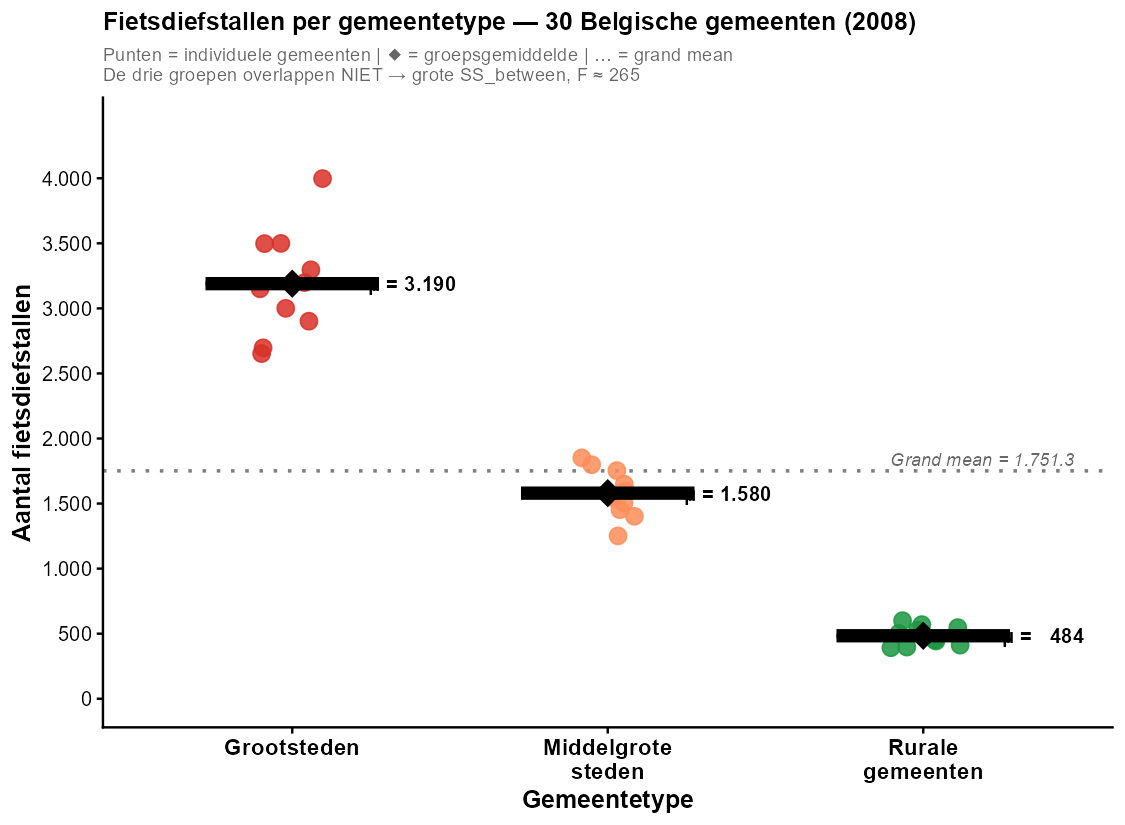
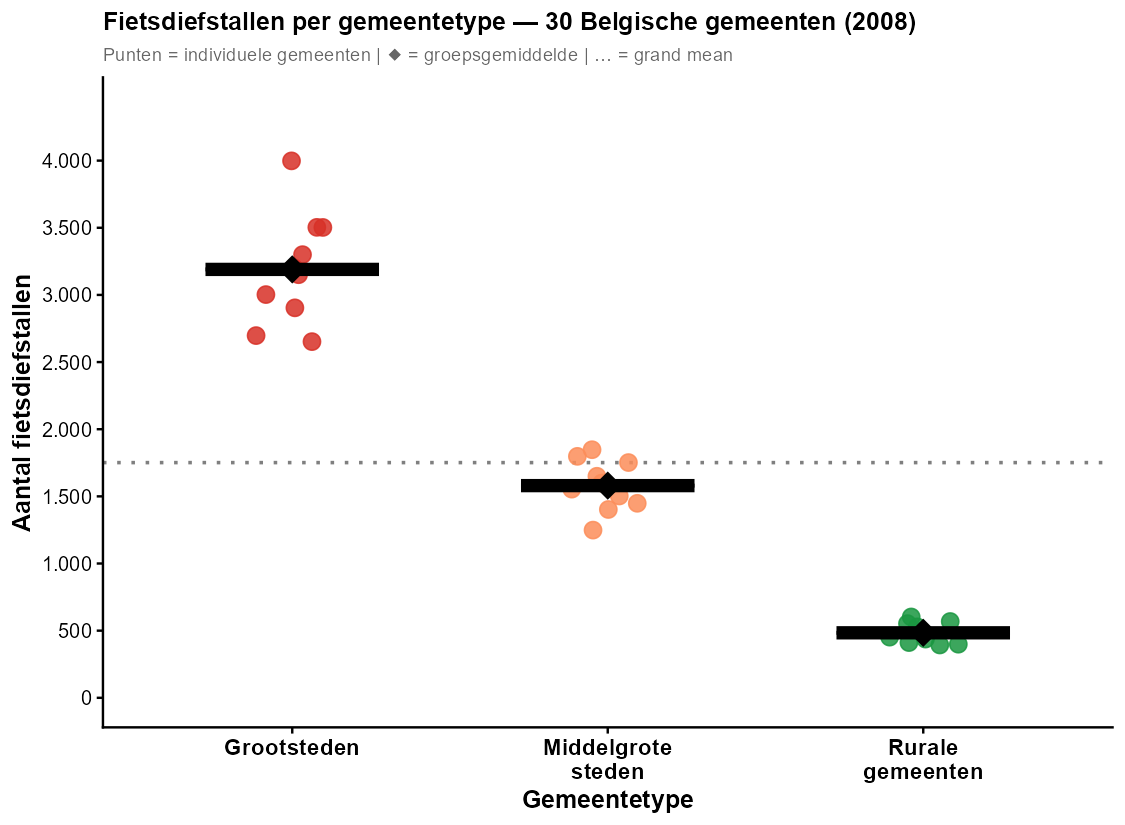
fix: remove answer hints from images in Oef 8.3, 8.4, 9.4

diff --git a/Hoofdstuk_9_Inferentiële statistiek en variantieanalyse/Oef - 9.4/description/description.nl.md b/Hoofdstuk_9_Inferentiële statistiek en variantieanalyse/Oef - 9.4/description/description.nl.md
@@ -32,7 +32,7 @@ In onderstaande tabel zie je het **aantal geregistreerde fietsdiefstallen** in *
 
 <img src="media/anova_dotplot.png" alt="Dot plot fietsdiefstallen per gemeentetype" style="width:100%; max-width:100%;" />
 
-> De drie groepen overlappen **niet**. Dit verklaart waarom SS_between veel groter is dan SS_within en de F-ratio extreem hoog uitvalt (F ≈ 265).
+> De drie groepen overlappen **niet**. Let op de spreiding binnen elke groep en de afstand tussen de groepen.
 
 Je berekent alles **met de hand** (rekenmachine mag). In R vul je enkel je **eindresultaten** in.
 
